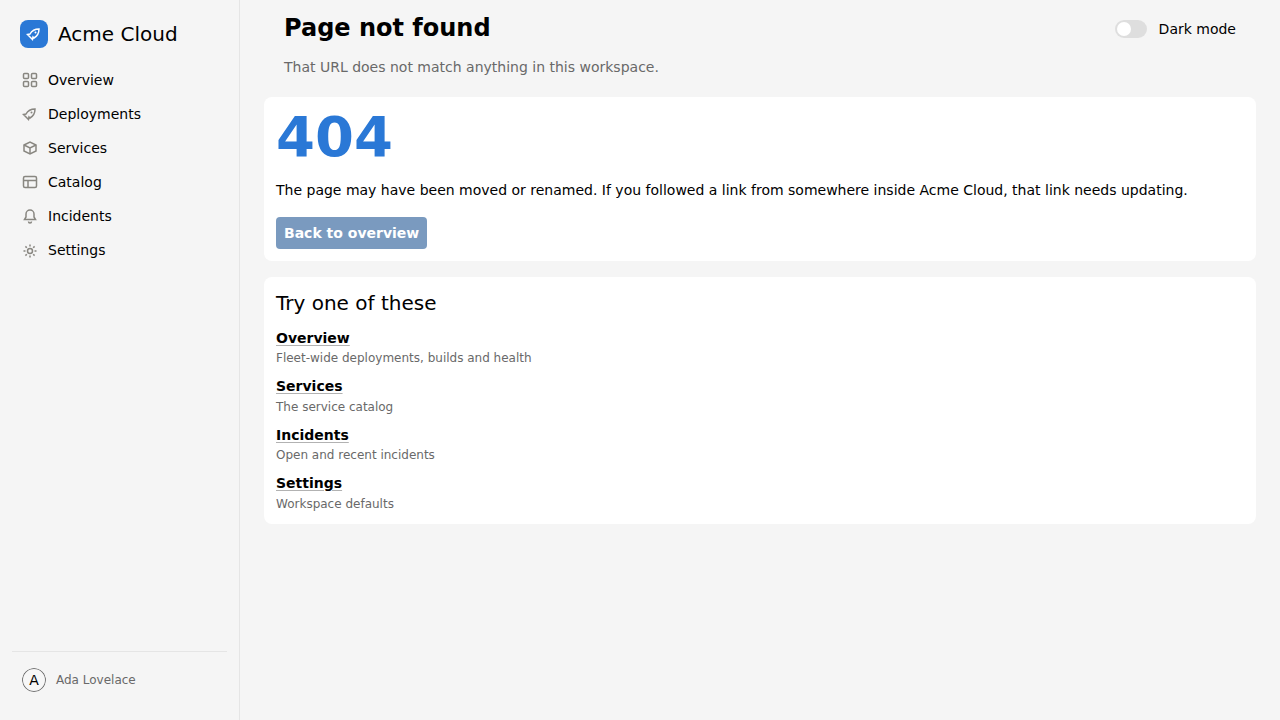
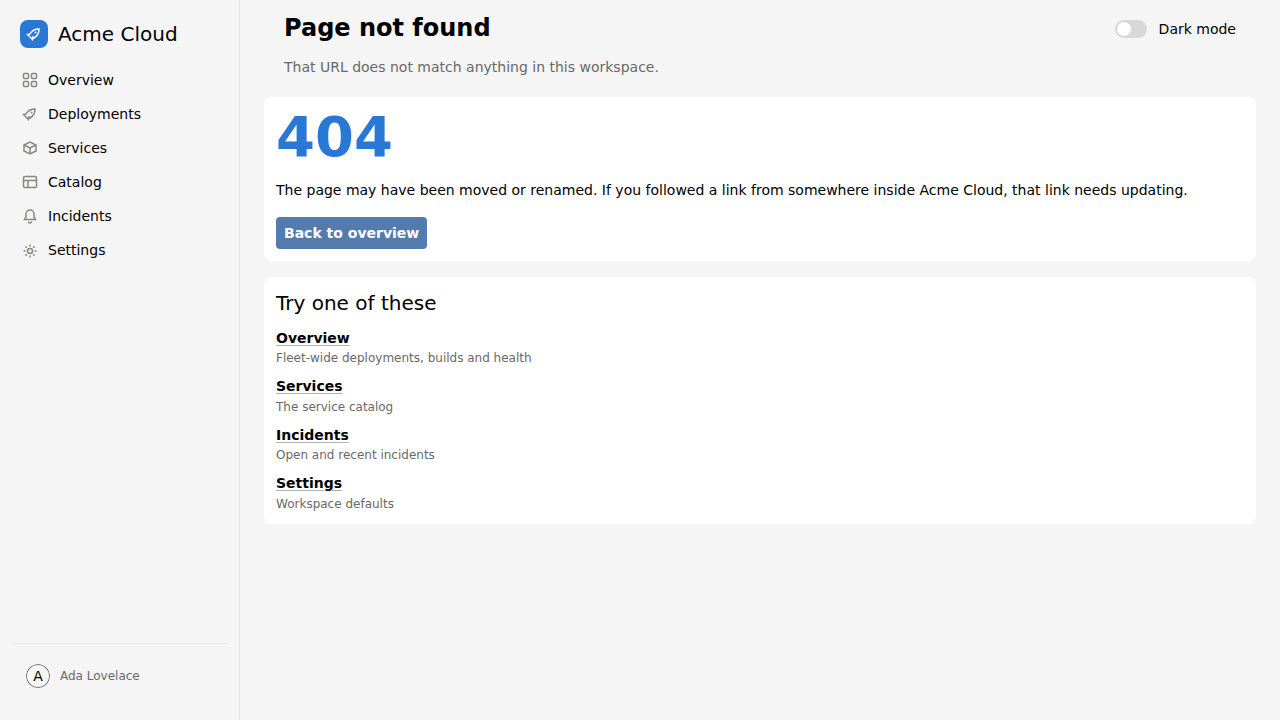
Add a profile page and an account menu
Adds /profile with tabs for Details, Notifications and Sessions: an
editable profile form, email digest preferences, and a session list
where the current session cannot be revoked.

The sidebar footer becomes an account menu, which is how /profile and
the API keys page (next) are reached. Those pages belong to the user
rather than the workspace, so putting them in the main nav would have
been wrong; a menu keeps the nav about sections.

Exercises Menu, MenuItem, MenuSeparator and MenuTrigger, plus Avatar at
medium size.

Claude-Session: https://claude.ai/code/session_01NFEuMvS1J9Npa7QQKHEnvs

Changed region(s): [[0.2188, 0.275, 0.3438, 0.3667], [0.0, 0.9167, 0.125, 0.9472]]

diff --git a/src/components/pages/ProfilePage.tsx b/src/components/pages/ProfilePage.tsx
@@ -1,0 +1,168 @@
+import { useState } from 'react';
+import {
+  Avatar,
+  Button,
+  Card,
+  CardBody,
+  CardHeader,
+  Checkbox,
+  CheckboxGroup,
+  Flex,
+  Select,
+  Tab,
+  TabList,
+  TabPanel,
+  Tabs,
+  Text,
+  TextAreaField,
+  TextField,
+} from '@backstage/ui';
+import { PageHeader } from '../dashboard/PageHeader';
+
+const TIMEZONES = [
+  { id: 'europe-berlin', label: 'Europe/Berlin' },
+  { id: 'europe-london', label: 'Europe/London' },
+  { id: 'america-new_york', label: 'America/New_York' },
+];
+
+const SESSIONS = [
+  { id: 'this', device: 'This browser · Chrome on Linux', location: 'Berlin, DE', last: 'Active now' },
+  { id: 'phone', device: 'Acme Mobile · iOS', location: 'Berlin, DE', last: '2 hours ago' },
+  { id: 'laptop', device: 'Firefox on macOS', location: 'Lisbon, PT', last: '3 days ago' },
+];
+
+export function ProfilePage() {
+  const [name, setName] = useState('Ada Lovelace');
+  const [title, setTitle] = useState('Platform engineer');
+  const [bio, setBio] = useState('Keeps the deploy pipeline honest.');
+  const [timezone, setTimezone] = useState('europe-berlin');
+  const [digests, setDigests] = useState<string[]>(['weekly']);
+  const [saved, setSaved] = useState(false);
+
+  return (
+    <>
+      <PageHeader
+        title="Profile"
+        description="Your account, preferences and active sessions."
+        tags={[{ label: 'account' }]}
+        metadata={[
+          { label: 'Member since', value: 'Mar 2024' },
+          { label: 'Teams', value: 'team-atlas' },
+        ]}
+      />
+
+      <Flex direction="column" gap="4" mt="4">
+        <Tabs>
+          <TabList aria-label="Profile sections">
+            <Tab id="details">Details</Tab>
+            <Tab id="notifications">Notifications</Tab>
+            <Tab id="sessions">Sessions</Tab>
+          </TabList>
+
+          <TabPanel id="details">
+            <Flex direction="column" gap="4" mt="4">
+              <Card>
+                <CardBody>
+                  <Flex align="center" gap="4">
+                    <Avatar src="" name={name} size="medium" />
+                    <Flex direction="column" gap="1">
+                      <Text variant="title-x-small" as="p">
+                        {name}
+                      </Text>
+                      <Text variant="body-small" color="secondary">
+                        {title}
+                      </Text>
+                    </Flex>
+                  </Flex>
+                </CardBody>
+              </Card>
+
+              <Card>
+                <CardHeader>
+                  <Text variant="title-x-small" as="h2">
+                    Details
+                  </Text>
+                </CardHeader>
+                <CardBody>
+                  <Flex direction="column" gap="4">
+                    <TextField label="Display name" value={name} onChange={setName} />
+                    <TextField label="Job title" value={title} onChange={setTitle} />
+                    <TextAreaField label="Bio" rows={3} value={bio} onChange={setBio} />
+                    <Select
+                      label="Time zone"
+                      options={TIMEZONES}
+                      value={timezone}
+                      onChange={(key) => setTimezone(String(key))}
+                    />
+                    <Flex align="center" justify="between" gap="4">
+                      <Text variant="body-small" color="secondary">
+                        {saved ? 'Profile saved.' : 'Changes are not saved yet.'}
+                      </Text>
+                      <Button variant="primary" onPress={() => setSaved(true)}>
+                        Save profile
+                      </Button>
+                    </Flex>
+                  </Flex>
+                </CardBody>
+              </Card>
+            </Flex>
+          </TabPanel>
+
+          <TabPanel id="notifications">
+            <Card>
+              <CardHeader>
+                <Text variant="title-x-small" as="h2">
+                  Email digests
+                </Text>
+              </CardHeader>
+              <CardBody>
+                <CheckboxGroup
+                  label="Send me"
+                  value={digests}
+                  onChange={setDigests}
+                >
+                  <Checkbox value="daily">A daily deploy summary</Checkbox>
+                  <Checkbox value="weekly">A weekly platform digest</Checkbox>
+                  <Checkbox value="incidents">Every incident I am on call for</Checkbox>
+                </CheckboxGroup>
+              </CardBody>
+            </Card>
+          </TabPanel>
+
+          <TabPanel id="sessions">
+            <Card>
+              <CardHeader>
+                <Text variant="title-x-small" as="h2">
+                  Active sessions
+                </Text>
+              </CardHeader>
+              <CardBody>
+                <ul className="session-list">
+                  {SESSIONS.map((session) => (
+                    <li key={session.id}>
+                      <Flex align="center" justify="between" gap="4">
+                        <Flex direction="column" gap="1">
+                          <Text variant="body-medium">{session.device}</Text>
+                          <Text variant="body-small" color="secondary">
+                            {session.location} · {session.last}
+                          </Text>
+                        </Flex>
+                        <Button
+                          variant="secondary"
+                          size="small"
+                          isDisabled={session.id === 'this'}
+                        >
+                          {session.id === 'this' ? 'Current' : 'Revoke'}
+                        </Button>
+                      </Flex>
+                    </li>
+                  ))}
+                </ul>
+              </CardBody>
+            </Card>
+          </TabPanel>
+        </Tabs>
+      </Flex>
+    </>
+  );
+}

diff --git a/tests/profile.spec.ts b/tests/profile.spec.ts
@@ -1,0 +1,72 @@
+import { test, expect } from '@playwright/test';
+import { clickAndNavigate, settle, useDarkTheme, waitForHydration } from './helpers';
+
+test.describe('Profile', () => {
+  test('is reachable from the account menu', async ({ page }) => {
+    await page.goto('/');
+    await waitForHydration(page);
+
+    await page.getByRole('button', { name: 'Account menu' }).click();
+    await clickAndNavigate(
+      page,
+      page.getByRole('menuitem', { name: 'Profile' }),
+      /\/profile$/,
+    );
+    await expect(
+      page.getByRole('heading', { name: 'Profile', exact: true }),
+    ).toBeVisible();
+  });
+
+  test('the account menu lists the off-nav destinations', async ({ page }) => {
+    await page.goto('/');
+    await waitForHydration(page);
+
+    await page.getByRole('button', { name: 'Account menu' }).click();
+    const menu = page.getByRole('menu');
+    await expect(menu.getByRole('menuitem')).toHaveCount(3);
+    await expect(menu.getByRole('menuitem', { name: 'API keys' })).toBeVisible();
+    await expect(menu.getByRole('menuitem', { name: 'Sign out' })).toBeVisible();
+  });
+
+  test('tabs switch between details, notifications and sessions', async ({
+    page,
+  }) => {
+    await page.goto('/profile');
+    await waitForHydration(page);
+
+    await expect(page.getByRole('tab')).toHaveCount(3);
+    await expect(page.getByRole('textbox', { name: 'Display name' })).toBeVisible();
+
+    await page.getByRole('tab', { name: 'Notifications' }).click();
+    await expect(page.getByText('A weekly platform digest')).toBeVisible();
+
+    await page.getByRole('tab', { name: 'Sessions' }).click();
+    await expect(page.getByText('Acme Mobile · iOS')).toBeVisible();
+    // the current session cannot be revoked
+    await expect(page.getByRole('button', { name: 'Current' })).toBeDisabled();
+  });
+
+  test('saving the profile confirms', async ({ page }) => {
+    await page.goto('/profile');
+    await waitForHydration(page);
+
+    await expect(page.getByText('Changes are not saved yet.')).toBeVisible();
+    await page.getByRole('textbox', { name: 'Display name' }).fill('Ada L.');
+    await page.getByRole('button', { name: 'Save profile' }).click();
+    await expect(page.getByText('Profile saved.')).toBeVisible();
+  });
+
+  test('screenshots', async ({ page }) => {
+    await page.goto('/profile');
+    await settle(page);
+    await page.screenshot({ path: 'screenshots/profile-light.png', fullPage: true });
+  });
+
+  test('dark screenshot', async ({ page }) => {
+    await useDarkTheme(page);
+    await page.goto('/profile');
+    await settle(page);
+    await expect(page.locator('html')).toHaveAttribute('data-theme-mode', 'dark');
+    await page.screenshot({ path: 'screenshots/profile-dark.png', fullPage: true });
+  });
+});

diff --git a/src/components/dashboard/Sidebar.tsx b/src/components/dashboard/Sidebar.tsx
@@ -16,7 +16,14 @@ import {
   Modal,
   ModalOverlay,
 } from 'react-aria-components';
-import { Avatar, Text } from '@backstage/ui';
+import {
+  Avatar,
+  Menu,
+  MenuItem,
+  MenuSeparator,
+  MenuTrigger,
+  Text,
+} from '@backstage/ui';
 import { withBase } from './base';
 
 const NAV_ITEMS = [
@@ -75,10 +82,23 @@ function Brand() {
 function User() {
   return (
     <div className="sidebar-footer">
-      <Avatar src="" name="Ada Lovelace" size="small" />
-      <Text variant="body-small" color="secondary" as="span">
-        Ada Lovelace
-      </Text>
+      {/* The account menu; the pages it links to are not in the main nav. */}
+      <MenuTrigger>
+        <Button className="user-trigger" aria-label="Account menu">
+          <Avatar src="" name="Ada Lovelace" size="small" />
+          <Text variant="body-small" color="secondary" as="span">
+            Ada Lovelace
+          </Text>
+        </Button>
+        <Menu>
+          <MenuItem href={withBase('/profile')}>Profile</MenuItem>
+          <MenuItem href={withBase('/api-keys')}>API keys</MenuItem>
+          <MenuSeparator />
+          <MenuItem href={withBase('/signin')} color="danger">
+            Sign out
+          </MenuItem>
+        </Menu>
+      </MenuTrigger>
     </div>
   );
 }

diff --git a/src/styles/dashboard.css b/src/styles/dashboard.css
@@ -620,3 +620,47 @@
   background: var(--bui-bg-danger);
   border: 1px solid var(--status-critical);
 }
+
+/* ---- Account menu ---- */
+
+.user-trigger {
+  display: flex;
+  align-items: center;
+  gap: 10px;
+  width: 100%;
+  padding: 4px;
+  border: none;
+  border-radius: 8px;
+  background: transparent;
+  cursor: pointer;
+  text-align: left;
+  outline: none;
+}
+
+.user-trigger[data-hovered] {
+  background: var(--bui-bg-neutral-2);
+}
+
+.user-trigger[data-focus-visible] {
+  outline: 2px solid var(--chart-series-1);
+  outline-offset: -2px;
+}
+
+/* ---- Session list ---- */
+
+.session-list {
+  margin: 0;
+  padding: 0;
+  list-style: none;
+  display: flex;
+  flex-direction: column;
+}
+
+.session-list li {
+  padding: 12px 0;
+  border-bottom: 1px solid var(--bui-border-1);
+}
+
+.session-list li:last-child {
+  border-bottom: none;
+}
